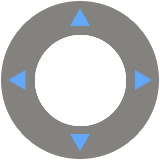
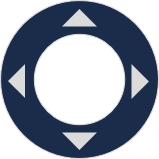
- replace images of compass and move control with new(original) ones. - add button to remove feature. (buggy) - improve some ui. - refactor some codes: ex) remove ".bind(this)"

diff --git a/demo/src/components/assistant/FeaturePicker.vue b/demo/src/components/assistant/FeaturePicker.vue
@@ -2,9 +2,22 @@
   <el-container>
     <el-main>
       <el-row>
-        <el-col :span="24" v-if="selected.length === 1">タイプ: {{ typeOfHead }}</el-col>
-        <el-col :span="24" v-else-if="selected.length === 0">スタイル編集するには図形を1つ選択して下さい</el-col>
-        <el-col :span="24" v-else>スタイル編集するには1つだけ選択して下さい({{ selected.length }}個選択中)</el-col>
+        <el-col :span="24" v-if="selected.length > 0">
+          <el-button type="danger"  icon="el-icon-delete" @click="onRemoveButtonClicked">{{selected.length}}個の図形を削除</el-button>
+        </el-col>
+      </el-row>
+      <el-row>
+        <el-col :span="24" v-if="selected.length === 1">
+          <p>タイプ: {{ typeOfHead }}</p>
+        </el-col>
+        <el-col :span="24" v-else>
+          <el-alert
+            title="ヒント"
+            type="info"
+            description="スタイル編集するには図形を1つだけ選択して下さい"
+            show-icon
+            :closable="false" />
+        </el-col>
       </el-row>
       <router-view :styleProps="selectedStyle" /> <!-- for style config view -->
     </el-main>
@@ -28,10 +41,10 @@ export default {
     }
   },
   mounted() {
-    hub.$on('feature_selected', this.onFeatureSelected.bind(this))
+    hub.$on('features_picked', this.onFeaturesSelected)
   },
   methods: {
-    onFeatureSelected(features) {
+    onFeaturesSelected(features) {
       this.selected = features
       if (this.selected.length === 1) {
         const feature = this.selected[0]
@@ -41,6 +54,9 @@ export default {
       } else {
         hub.$emit('multiple_feature_picked')
       }
+    },
+    onRemoveButtonClicked() {
+      hub.$emit('remove_feature_required', this.selected)
     }
   }
 }

diff --git a/demo/src/components/MapView.vue b/demo/src/components/MapView.vue
@@ -60,6 +60,7 @@ export default {
     setListeners() {
       hub.$on('mode_selected', (mode) => (this.te.mode = mode))
       hub.$on('drawing_style_changed', this.applyDrawingStyle)
+      hub.$on('remove_feature_required', this.removeFeatures)
       hub.$on('layer_list_requested', this.updateLayerList)
       hub.$on('layer_state_changed', this.applyChangeToLayer)
       hub.$on('layer_selected', this.applySelectedLayer)
@@ -81,7 +82,7 @@ export default {
       const cesiumScene = this.te.olcs.getCesiumScene()
       cesiumScene.camera.moveEnd.addEventListener(this.raiseViewStateChange3d, this)
 
-      this.te.on('select', evt => hub.$emit('feature_selected', evt.selected))
+      this.te.on('select', evt => hub.$emit('features_picked', evt.selected))
       this.te.on('measuring_started', evt => hub.$emit('measuring_started', evt))
       this.te.on('measure_point_added', evt => hub.$emit('measure_point_added', evt))
       this.te.on('measuring_finished', evt => hub.$emit('measuring_finished', evt))
@@ -218,6 +219,11 @@ export default {
       } else {
         this.te.drawingStyle = olStyle
       }
+    },
+    removeFeatures(features) {
+      const source = this.te.layerToPick.getSource()
+      features.forEach(feature => source.removeFeature(feature))
+      hub.$emit('features_picked', this.te.pickedFeatures)
     },
     applyChangeToLayer(layerProps) {
       // change: id, show

diff --git a/src/assets/olex_assets/control/rotatecontrol/rotate_control.css b/src/assets/olex_assets/control/rotatecontrol/rotate_control.css
@@ -2,13 +2,8 @@
   top: 20px;
   right: 15px;
 }
-.rotate-control-large {
-  top: 20px;
-  right: 15px;
-}
 
-.ol-control .compass-button,
-.ol-control .compass-button-large {
+.ol-control .compass-button {
   background-image: url(compass_control_bg.png);
   background-size: cover;
   will-change:transform;
@@ -18,13 +13,8 @@
   height: 100px;
   width: 100px;
 }
-.ol-control .compass-button-large {
-  height: 200px;
-  width: 200px;
-}
 
-.ol-control .rotate-button,
-.ol-control .rotate-button-large {
+.ol-control .rotate-button {
   position: absolute;
   margin: auto;
   top: 0;
@@ -35,10 +25,6 @@
   background-size: cover;
 }
 .ol-control .rotate-button {
-  height: 70px;
-  width: 70px;
-}
-.ol-control .rotate-button-large {
-  height: 140px;
-  width: 140px;
+  height: 77px;
+  width: 77px;
 }

diff --git a/demo/src/components/assistant/Measuring.vue b/demo/src/components/assistant/Measuring.vue
@@ -46,10 +46,10 @@ export default {
     }
   },
   mounted() {
-    hub.$on('measuring_started', this.onReceiveMeasuringEvent.bind(this))
-    hub.$on('measure_point_added', this.onReceiveMeasuringEvent.bind(this))
-    hub.$on('measuring_finished', this.onReceiveMeasuringEvent.bind(this))
-    hub.$on('analyze_crosssection_finished', this.onAnalyzeCrossSectionFinished.bind(this))
+    hub.$on('measuring_started', this.onReceiveMeasuringEvent)
+    hub.$on('measure_point_added', this.onReceiveMeasuringEvent)
+    hub.$on('measuring_finished', this.onReceiveMeasuringEvent)
+    hub.$on('analyze_crosssection_finished', this.onAnalyzeCrossSectionFinished)
   },
   methods: {
     onReceiveMeasuringEvent(evt) {

diff --git a/demo/src/components/Main.vue b/demo/src/components/Main.vue
@@ -2,10 +2,12 @@
   <el-container>
     <el-aside :width="'24.5em'">
       <el-tabs v-model="activeTab">
+        <el-tab-pane label="レイヤー" name="layer">
+          <layers class="controller" />
+        </el-tab-pane>
         <el-tab-pane label="描画・解析" name="draw_n_analysis">
           <mode-selector class="mode-selector" />
           <router-view class="controller" :styleProps="currentStyle" />
-          <layers class="controller" />
         </el-tab-pane>
         <el-tab-pane label="地点・ルート検索" name="search">
           <searcher :user="user" class="controller" />

diff --git a/demo/src/components/UserConsole.vue b/demo/src/components/UserConsole.vue
@@ -6,10 +6,10 @@
           <el-tag>{{ user }}</el-tag>
         </el-col>
         <el-col :span="9">
-          <el-button type="success"　@click="onSaveClicked">データ保存</el-button>
+          <el-button type="success"　@click="onSaveClicked" icon="el-icon-upload">データ保存</el-button>
         </el-col>
         <el-col :span="9">
-          <el-button type="danger"　@click="onLogOutClicked">ログアウト</el-button>
+          <el-button type="danger"　@click="onLogOutClicked" icon="el-icon-remove">ログアウト</el-button>
         </el-col>
       </el-row>
     </el-main>

diff --git a/src/assets/olex_assets/control/movecontrol/move_control.css b/src/assets/olex_assets/control/movecontrol/move_control.css
@@ -1,25 +1,16 @@
 .move-control {
   top: 120px;
-  right: 30px;
-}
-.move-control-large {
-  top: 240px;
-  right: 45px;
+  right: 26px;
 }
 
-.ol-control .move-button,
-.ol-control .move-button-large {
+.ol-control .move-button {
   background-image: url(move_control_bg.png);
   background-size: cover;
   cursor:pointer;
 }
 .ol-control .move-button {
-  height: 70px;
-  width: 70px;
-}
-.ol-control .move-button-large {
-  height: 140px;
-  width: 140px;
+  height: 77px;
+  width: 77px;
 }
 
 .ol-control ,

diff --git a/demo/src/components/layers/Layers.vue b/demo/src/components/layers/Layers.vue
@@ -58,9 +58,9 @@ export default {
     }
   },
   mounted() {
-    hub.$on('layer_added', this.onLayerAdded.bind(this))
-    hub.$on('layer_removed', this.onLayerRemoved.bind(this))
-    hub.$on('layer_list_updated', this.onLayerListUpdated.bind(this))
+    hub.$on('layer_added', this.onLayerAdded)
+    hub.$on('layer_removed', this.onLayerRemoved)
+    hub.$on('layer_list_updated', this.onLayerListUpdated)
     hub.$emit('layer_list_requested')
   },
   methods: {

diff --git a/残件.md b/残件.md
@@ -1,15 +1,15 @@
 # 残件
 
+- 操作ヒント表示
 - スタイル修正
 - レイヤーID変更時エラー
-- Feature選択削除
-- コンパス画像パーツ置換
-  + ついでにインタラクティブにできるといいが
-  + キーボード操作入れる？
+- Feature選択削除、一括で消えない
+- Feature選択状態強調
 - 認証処理をサーバー側APIへ繋ぎ込む
 - データ保存をサーバー側APIへ繋ぎ込む
 - OSRMもやってしまいたい
 - ドラッグ回転、右ドラッグズーム...
+- コンパスUIインタラクティブにできるといいが
 
 ## done
 
@@ -22,3 +22,23 @@
   + ユーザー名表示
 - CircleをPolygon化してGeoJSON化
 - MapViewライフサイクル修正(特に初期化時)
+- Feature選択削除
+
+
+239px : 4.00cm
+160px : 2.67cm
+210px : 3.51cm
+
+160:207 = 70:91
+160:207 = 77:100
+
+
+## OSRM
+
+docker run -t -v %cd%:/data osrm/osrm-backend osrm-extract -p /opt/car.lua /data/kanto-latest.osm.pbf
+docker run -t -v %cd%:/data osrm/osrm-backend osrm-partition /data/kanto-latest.osrm
+docker run -t -v %cd%:/data osrm/osrm-backend osrm-customize /data/kanto-latest.osrm
+
+docker run -t -i -p 5000:5000 -v %cd%:/data osrm/osrm-backend osrm-routed --algorithm mld /data/kanto-latest.osrm
+
+curl "http://localhost:5000/route/v1/driving/139.7506967,35.6086102;139.7420975,35.628629?steps=true" --noproxy localhost
